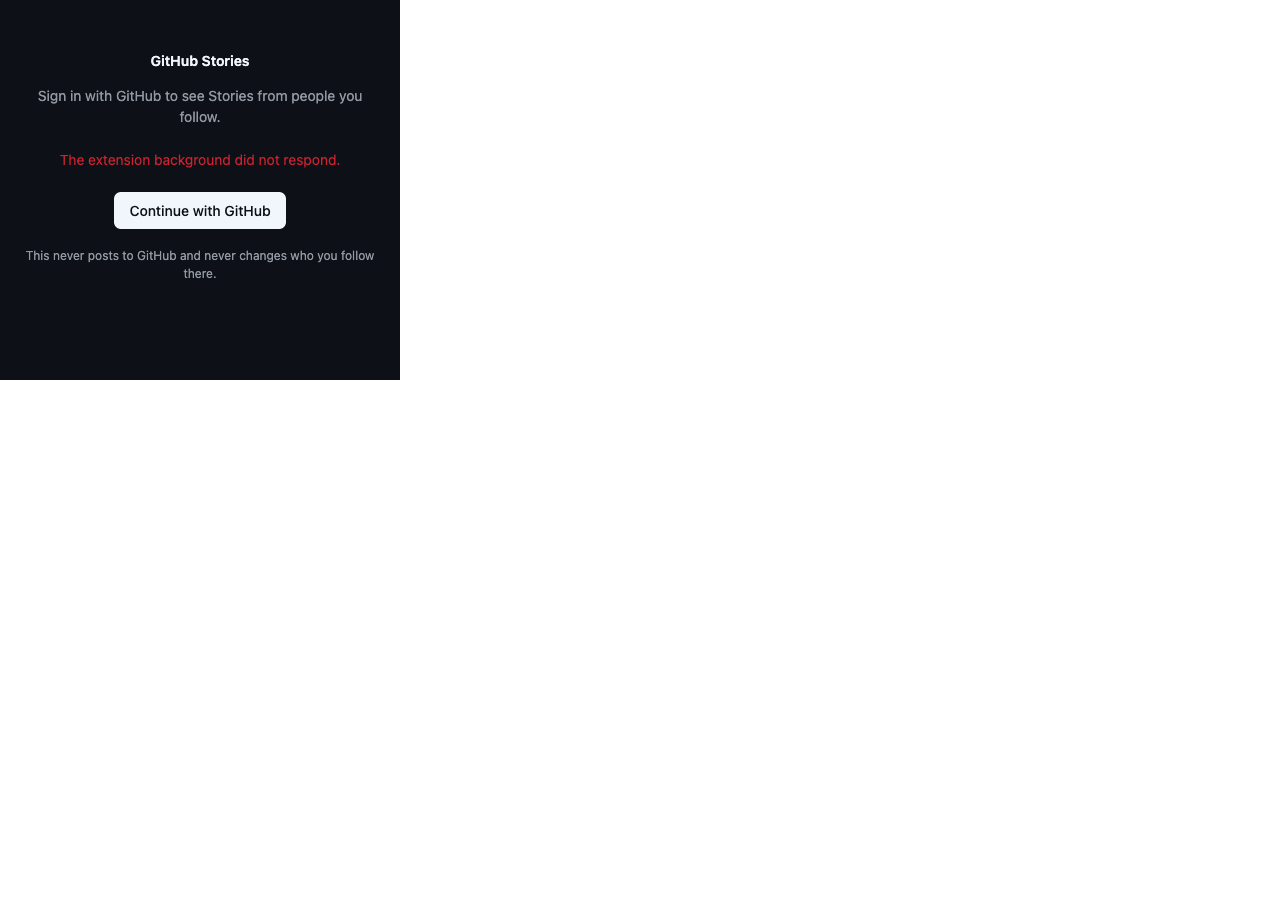
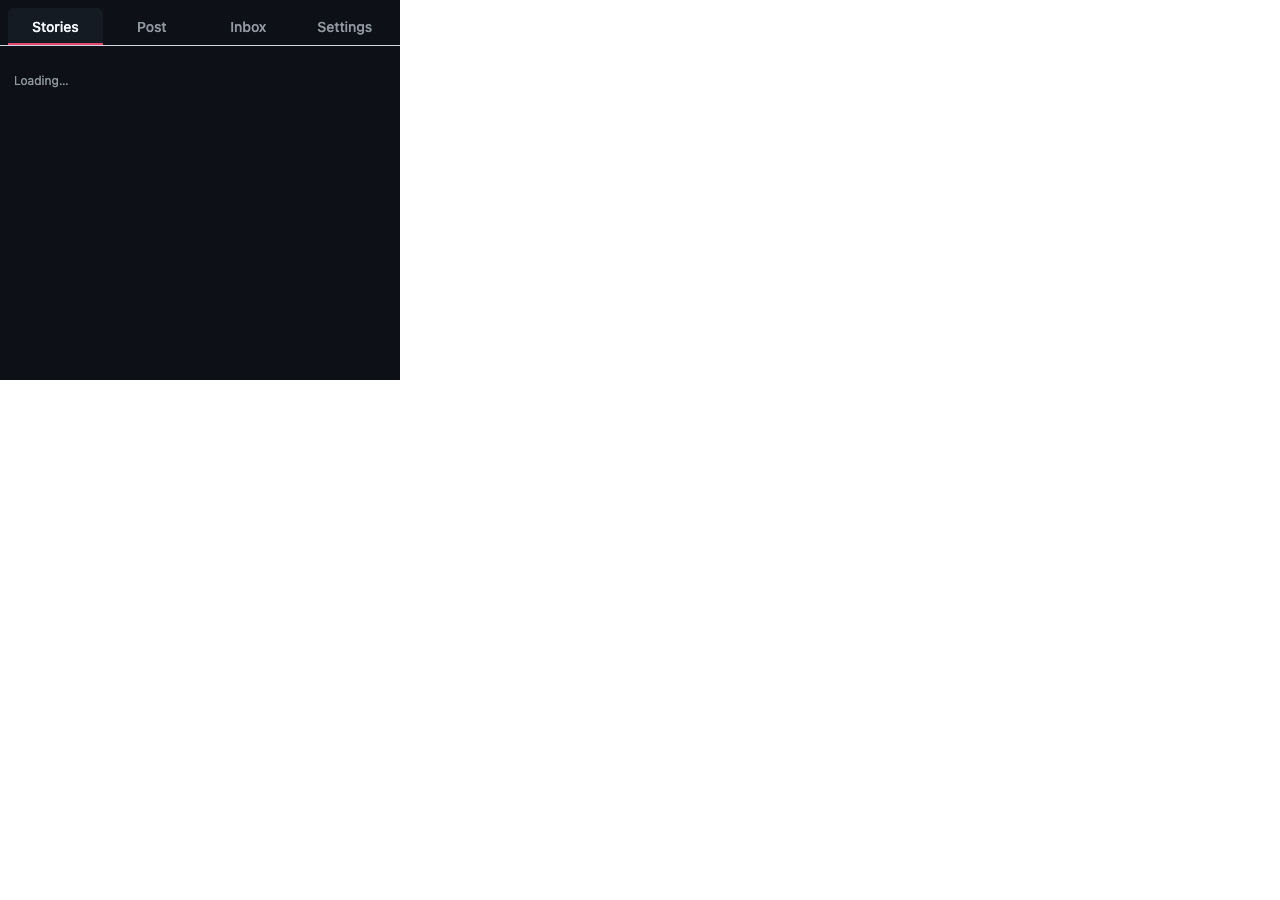
Extension: posting from the browser now actually works
Two more defects, both only visible once the extension was really running:

1. The extension's own options page could not talk to its background at all.
   `options_ui.open_in_tab` makes the settings page a real tab, so
   `sender.tab` is set, and the trust rule then demanded a github.com origin
   and rejected it. Our own chrome-extension:// pages are now trusted first,
   tab or not — and the popup, driven as a tab in tests, was hitting the same
   wall.
2. Uploads stalled at 0%. Extension ports serialise with JSON exactly like
   sendMessage, so the file's ArrayBuffer arrived as `{}`. Bytes now travel as
   chunked base64, matching the media-fetch fix.

Also fixes two tests that were passing without proving anything:
- The popup check matched /Stories/, which the signed-OUT screen also
  contains, so it passed while signed out. It now asserts the actual
  signed-in tab strip.
- The composer check matched the word "published" in the instructional copy
  "It disappears 24 hours after it is published." It is now scoped to the
  composer's status region, requires processing before posted, and finally
  asks the service whether the Story genuinely exists.

Verified end to end in a real Chromium: choose a file, see the preview and the
plain-language audience, post, watch it go uploading → processing → "Story
posted.", and confirm the item on the service.

diff --git a/evidence/browser/report/index.html b/evidence/browser/report/index.html
@@ -46,4 +46,4 @@ Error generating stack: `+e.message+`
     <div id='root'></div>
   </body>
 </html>
[2 lines of base64/hex data omitted]

diff --git a/tests/e2e/specs/extension.spec.ts b/tests/e2e/specs/extension.spec.ts
@@ -287,9 +287,12 @@ test.describe('browser extension', () => {
       const page = await context.newPage();
       // No github.com tab at all: the popup must still work.
       await page.goto(`chrome-extension://${extensionId}/popup.html`);
-      await expect(page.locator('body')).toContainText(/Stories|Post|Inbox|Settings/i, {
-        timeout: 15_000,
-      });
+      // Strict: the signed-OUT screen also contains the word "Stories", so
+      // assert the actual signed-in tab strip instead.
+      await expect(page.getByRole('tab', { name: /^stories$/i })).toBeVisible({ timeout: 15_000 });
+      for (const tab of ['Post', 'Inbox', 'Settings']) {
+        await expect(page.getByRole('tab', { name: new RegExp(`^${tab}$`, 'i') })).toBeVisible();
+      }
       await shot(page, 'extension-popup');
     } finally {
       await context.close();
@@ -450,6 +453,80 @@ test.describe('viewer and dashboard', () => {
       expect([dark, light].some((v) => v !== null),
         'the ring host should carry a colour mode it can follow').toBe(true);
       if (dark !== null && light !== null) expect(light).not.toBe(dark);
+    } finally {
+      await context.close();
+    }
+  });
+});
+
+test.describe('posting from the browser', () => {
+  test('@visual composes and publishes a Story, and it appears in the feed', async () => {
+    test.setTimeout(120_000);
+    const { context, extensionId } = await launch();
+    try {
+      await signIn(context, extensionId);
+      const page = await context.newPage();
+      await page.goto(`chrome-extension://${extensionId}/popup.html`);
+
+      // Post tab.
+      await page.getByRole('tab', { name: /^post$/i }).click();
+
+      // The file input lives inside the composer's picker label.
+      const input = page.locator('input[type="file"]');
+      await expect(input).toBeAttached({ timeout: 15_000 });
+      await input.setInputFiles(
+        resolve(import.meta.dirname, '../../../tests/fixtures/samples/food.jpg'),
+      );
+
+      // Preview appears, and the audience is stated in plain language BEFORE
+      // anything is published.
+      await expect(page.locator('.ghs-composer__preview')).toBeVisible({ timeout: 15_000 });
+      await shot(page, 'extension-composer');
+
+      const body = await page.locator('body').innerText();
+      expect(body, 'the audience must be stated in plain language before posting')
+        .toMatch(/People I follow|My followers|Mutuals|Public/i);
+
+      // Caption and accessibility description.
+      const caption = page.getByLabel(/caption/i);
+      if (await caption.count()) await caption.first().fill('worth the queue');
+      const description = page.getByLabel(/description/i);
+      if (await description.count()) await description.first().fill('A bowl of noodles');
+
+      // Publish. The composer's own Post button, not the tab.
+      await page.locator('.ghs-composer__post').click();
+
+      // Scoped to the composer's own status region. The instructional copy
+      // contains the word "published", so asserting against the whole body
+      // would pass without anything actually being posted.
+      const status = page.locator('.ghs-composer__status');
+      await expect(status).toBeVisible({ timeout: 30_000 });
+
+      // A successful upload is NOT yet "posted": processing is shown first.
+      await expect
+        .poll(async () => (await status.innerText()).toLowerCase(), { timeout: 90_000 })
+        .toMatch(/processing|posted/);
+
+      await expect
+        .poll(async () => (await status.innerText()).toLowerCase(), { timeout: 90_000 })
+        .toContain('posted');
+
+      await shot(page, 'extension-composer-published');
+
+      // And the Story must genuinely exist on the service, not merely look
+      // posted in the UI.
+      const s = session();
+      const mine = await page.evaluate(
+        async ([svc, token]) => {
+          const res = await fetch(`${svc}/v1/stories/mine`, {
+            headers: { authorization: `Bearer ${token}` },
+          });
+          return res.json();
+        },
+        [s.service, s.alice.token] as const,
+      );
+      const captions = (mine?.items ?? []).map((i: { caption?: string }) => i.caption ?? '');
+      expect(captions, 'the posted Story must exist on the service').toContain('worth the queue');
     } finally {
       await context.close();
     }

diff --git a/apps/web-extension/src/messaging/sender.ts b/apps/web-extension/src/messaging/sender.ts
@@ -27,31 +27,37 @@ export function isTrustedSender(
   if (!sender) return false;
   if (sender.id !== ownExtensionId) return false;
 
-  if (sender.tab) {
-    if (!sender.url) return false;
-    let origin: string;
-    try {
-      origin = new URL(sender.url).origin;
-    } catch {
-      return false;
-    }
-    return origin === GITHUB_ORIGIN;
+  const url = parseURL(sender.url);
+
+  // Our own extension pages (popup, options) are trusted wherever they run.
+  //
+  // This check must come BEFORE the tab check: `options_ui.open_in_tab` makes
+  // the options page a real tab, so `sender.tab` is set and a tab-first rule
+  // would demand a github.com origin and reject the extension's own settings
+  // page — which is exactly what happened.
+  if (url && (url.protocol === "chrome-extension:" || url.protocol === "moz-extension:")) {
+    return url.host === ownExtensionId;
   }
 
-  // No `sender.tab` means this came from an extension page (popup, options,
-  // or the background itself never receives its own messages this way).
-  // Extension-page senders report `sender.url` as a chrome-extension:// /
-  // moz-extension:// URL; confirm it belongs to us when present.
-  if (sender.url) {
-    try {
-      const url = new URL(sender.url);
-      if (url.protocol !== "chrome-extension:" && url.protocol !== "moz-extension:") return false;
-      if (url.host !== ownExtensionId) return false;
-    } catch {
-      return false;
-    }
+  // Anything else claiming to be a page must be a github.com content script.
+  // The content script is only registered for https://github.com/*, but that
+  // registration alone is not trusted.
+  if (sender.tab) {
+    return url?.origin === GITHUB_ORIGIN;
   }
-  return true;
+
+  // No tab and no URL: an internal sender. Anything with a URL that reached
+  // here is neither one of our pages nor a GitHub content script.
+  return !sender.url;
+}
+
+function parseURL(value: string | undefined): URL | null {
+  if (!value) return null;
+  try {
+    return new URL(value);
+  } catch {
+    return null;
+  }
 }
 
 /** Same trust rule, applied to `runtime.onConnect` ports (used for uploads). */

diff --git a/apps/web-extension/src/composer/ComposerBridge.tsx b/apps/web-extension/src/composer/ComposerBridge.tsx
@@ -69,13 +69,22 @@ export function ComposerBridge(props: ComposerBridgeProps): React.JSX.Element | 
   };
 
   async function submit(draft: ComposerDraft): Promise<void> {
-    const bytes = await draft.file.arrayBuffer();
+    const buffer = await draft.file.arrayBuffer();
+    // Ports serialise with JSON, so the bytes travel as base64. Chunked,
+    // because a spread over a video-sized array blows the call stack.
+    const view = new Uint8Array(buffer);
+    let binary = "";
+    const CHUNK = 0x8000;
+    for (let i = 0; i < view.length; i += CHUNK) {
+      binary += String.fromCharCode(...view.subarray(i, i + CHUNK));
+    }
+    const base64 = btoa(binary);
     if (!idempotencyKeyRef.current) idempotencyKeyRef.current = crypto.randomUUID();
     const start: UploadStartMessage = {
       type: "start",
       idempotencyKey: idempotencyKeyRef.current,
       mime: draft.file.type || "application/octet-stream",
-      byteSize: bytes.byteLength,
+      byteSize: buffer.byteLength,
       filename: draft.filename,
       caption: draft.caption,
       altText: draft.altText,
@@ -83,7 +92,7 @@ export function ComposerBridge(props: ComposerBridgeProps): React.JSX.Element | 
       audienceListId: draft.audienceListId,
       allowReplies: draft.allowReplies,
       allowReactions: draft.allowReactions,
-      bytes,
+      base64,
     };
 
     await new Promise<void>((resolve, reject) => {

diff --git a/apps/web-extension/src/api/upload.ts b/apps/web-extension/src/api/upload.ts
@@ -142,7 +142,8 @@ export async function runUploadFlow(
     );
 
     send({ type: "progress", phase: "uploading", loaded: 0, total: message.byteSize });
-    await putWithProgress(intent.url, intent.headers, message.bytes, controller.signal, (loaded, total) => {
+    const bytes = decodeBase64(message.base64);
+    await putWithProgress(intent.url, intent.headers, bytes, controller.signal, (loaded, total) => {
       send({ type: "progress", phase: "uploading", loaded, total });
     });
 
@@ -151,7 +152,7 @@ export async function runUploadFlow(
       return;
     }
 
-    const checksum = await sha256Hex(message.bytes);
+    const checksum = await sha256Hex(bytes);
     send({ type: "phase", phase: "processing" });
     const story = await apiClient.finalizeUpload(
       intent.upload_id,
@@ -202,4 +203,12 @@ async function pollUntilSettled(apiClient: ApiClient, storyId: string | undefine
       );
     });
   }
+}
+
+/** Turns the base64 the composer sent into the raw bytes to upload. */
+function decodeBase64(value: string): ArrayBuffer {
+  const binary = atob(value);
+  const out = new Uint8Array(binary.length);
+  for (let i = 0; i < binary.length; i += 1) out[i] = binary.charCodeAt(i);
+  return out.buffer;
 }

diff --git a/apps/web-extension/src/messaging/types.ts b/apps/web-extension/src/messaging/types.ts
@@ -309,9 +309,15 @@ export interface UploadStartMessage {
   audienceListId?: string;
   allowReplies: boolean;
   allowReactions: boolean;
-  /** Raw file bytes. Transferred once; never persisted by the background
-   * beyond the lifetime of this upload. */
-  bytes: ArrayBuffer;
+  /**
+   * Base64-encoded file bytes, transferred once and never persisted by the
+   * background beyond the lifetime of this upload.
+   *
+   * NOT an ArrayBuffer: extension ports serialise with JSON just like
+   * sendMessage, so an ArrayBuffer arrives as `{}` and the upload silently
+   * stalls at 0%.
+   */
+  base64: string;
 }
 export interface UploadCancelMessage {
   type: "cancel";
@@ -339,7 +345,7 @@ export function isUploadStartMessage(value: unknown): value is UploadStartMessag
     typeof v.visibility === "string" &&
     typeof v.allowReplies === "boolean" &&
     typeof v.allowReactions === "boolean" &&
-    v.bytes instanceof ArrayBuffer
+    typeof v.base64 === "string"
   );
 }
 export function isUploadCancelMessage(value: unknown): value is UploadCancelMessage {

diff --git a/apps/web-extension/tests/messaging/sender.test.ts b/apps/web-extension/tests/messaging/sender.test.ts
@@ -41,6 +41,18 @@ describe('runtime message sender validation', () => {
     expect(isTrustedSender(undefined, OWN_ID)).toBe(false);
   });
 
+  it('accepts our own extension pages opened in a TAB', () => {
+    // options_ui.open_in_tab makes the settings page a real tab. A tab-first
+    // trust rule rejected it and the settings page could not talk to the
+    // background at all.
+    expect(
+      isTrustedSender(
+        { id: OWN_ID, tab: { id: 12 }, url: `chrome-extension://${OWN_ID}/options.html` } as never,
+        OWN_ID,
+      ),
+    ).toBe(true);
+  });
+
   it('accepts our own extension pages', () => {
     expect(
       isTrustedSender(
